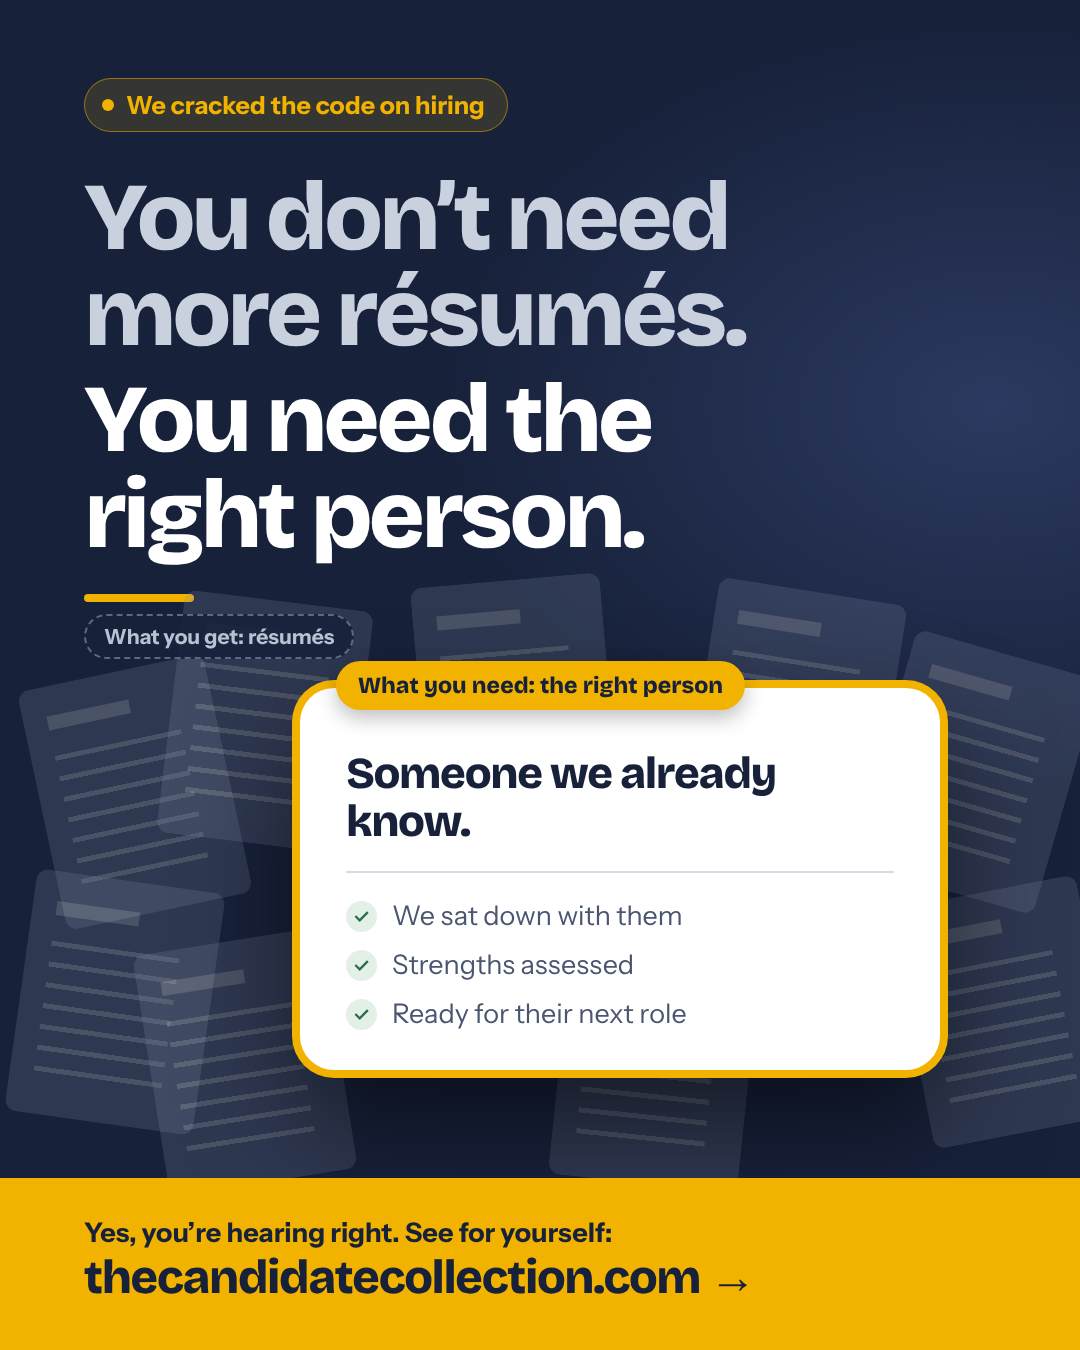
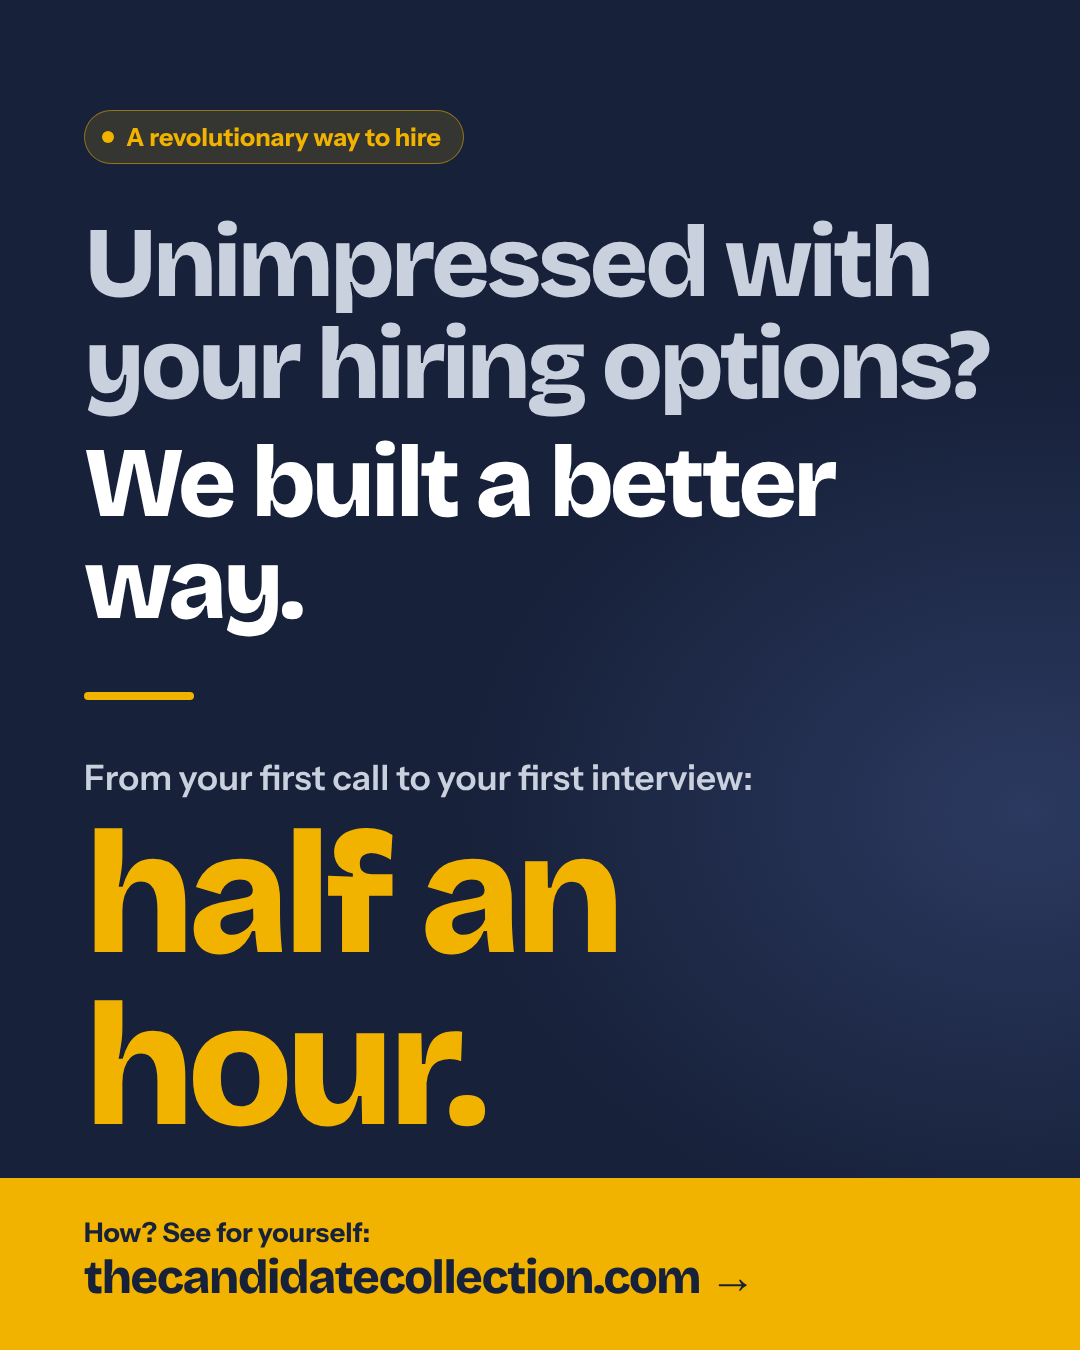
The flow: teaser raises the question, the first screen answers it and asks for the call
Claude-Session: https://claude.ai/code/session_01EZeEyNzeQFPN4DFsUvzuMe

diff --git a/src/app/page.tsx b/src/app/page.tsx
@@ -38,15 +38,15 @@ export default async function Home() {
           <div>
             <p className={s.eyebrow}>A revolutionary way to hire</p>
             <h1>
-              Looking to hire? <span>We have qualified candidates, vetted and ready to roll.</span>
+              Looking to hire? <span>We already met your next candidate.</span>
             </h1>
-            <p className={s.wink}>We&rsquo;re not starting a search now. We already met them.</p>
+            <p className={s.wink}>Qualified, vetted and ready to roll.</p>
             <p className={s.lede}>
-              They&rsquo;re ready, willing and able. Tell us what you need, and{" "}
-              <b>you can meet a qualified candidate who&rsquo;s relevant to you within half an hour.</b>
+              We&rsquo;re not starting a search now. Our candidates are ready, willing and able. Tell us what you need, and{" "}
+              <b>you can meet one who&rsquo;s relevant to you within half an hour.</b>
             </p>
             <a href="#callback" className={`btn btn-gold ${s.ctaBtn} ${s.onlyPhone}`}>
-              Get a call back
+              Talk to our team
             </a>
             <p className={s.links}>
               <a href="#now" className={s.second}>
@@ -58,8 +58,8 @@ export default async function Home() {
             </p>
           </div>
           <div id="callback" className={s.cb}>
-            <span className={s.tagOne}>Ready, willing and able</span>
-            <h2>Tell us what you need. We&rsquo;ll give you a good match.</h2>
+            <span className={s.tagOne}>Tell us what you need</span>
+            <h2>Talk to our team. We&rsquo;ll call you back.</h2>
             <CallbackForm />
           </div>
         </div>
@@ -205,10 +205,10 @@ export default async function Home() {
 
       <section className={s.invite}>
         <div className="wrap">
-          <h2>Looking to hire? Your search can be easy.</h2>
+          <h2>Looking to hire? Talk to our team.</h2>
           <p>Tell us what you need, and we&rsquo;ll give you a good match.</p>
           <a className={`btn btn-gold ${s.ctaBtn}`} href="#callback">
-            Get a call back
+            Talk to our team
           </a>
           <p className={s.noteDark} style={{ marginTop: 12 }}>
             Or <Link href="/meet" style={{ color: "#fff" }}>pick a time for a video call</Link>

diff --git a/src/lib/shareKit.ts b/src/lib/shareKit.ts
@@ -26,7 +26,7 @@ export function ownerMessage(ref?: string | null) {
 
 // The teaser: the new front-page message, one link, meant to make an owner curious.
 export function ownerTeaser(ref?: string | null) {
-  return `Hiring takes real effort. And after all of it, you're holding a pile of résumés, still wondering who's actually right for you.\n\nWe cracked that part. We sit down with every candidate and learn what they're truly great at, so you meet the people who fit your position.\n\nSee for yourself: ${shareLink(ref, "home")}`;
+  return `Unimpressed with your hiring options? We built a revolutionary way to hire.\n\nWhen one of our candidates matches your position, your first interview can be half an hour after your first call with us.\n\nSee how: ${shareLink(ref, "home")}`;
 }
 
 // The candidate side: a warm note from a rep to their network.
